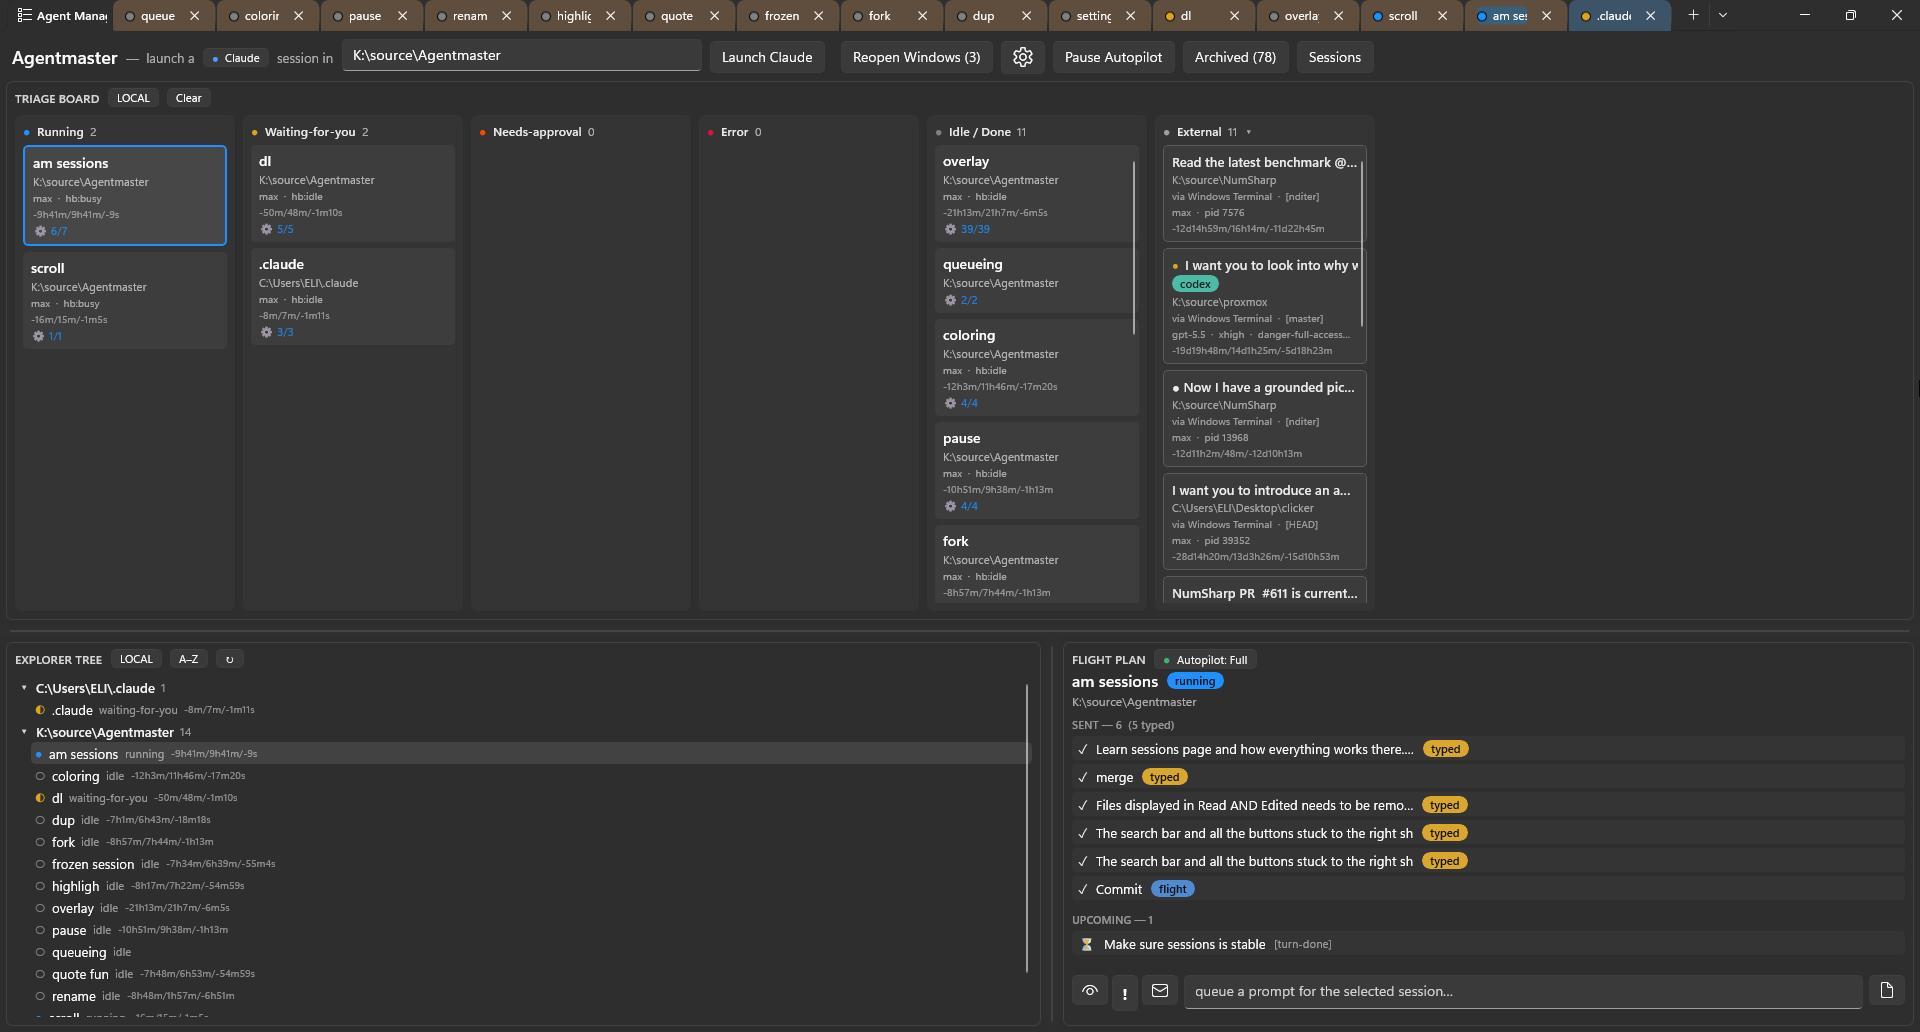
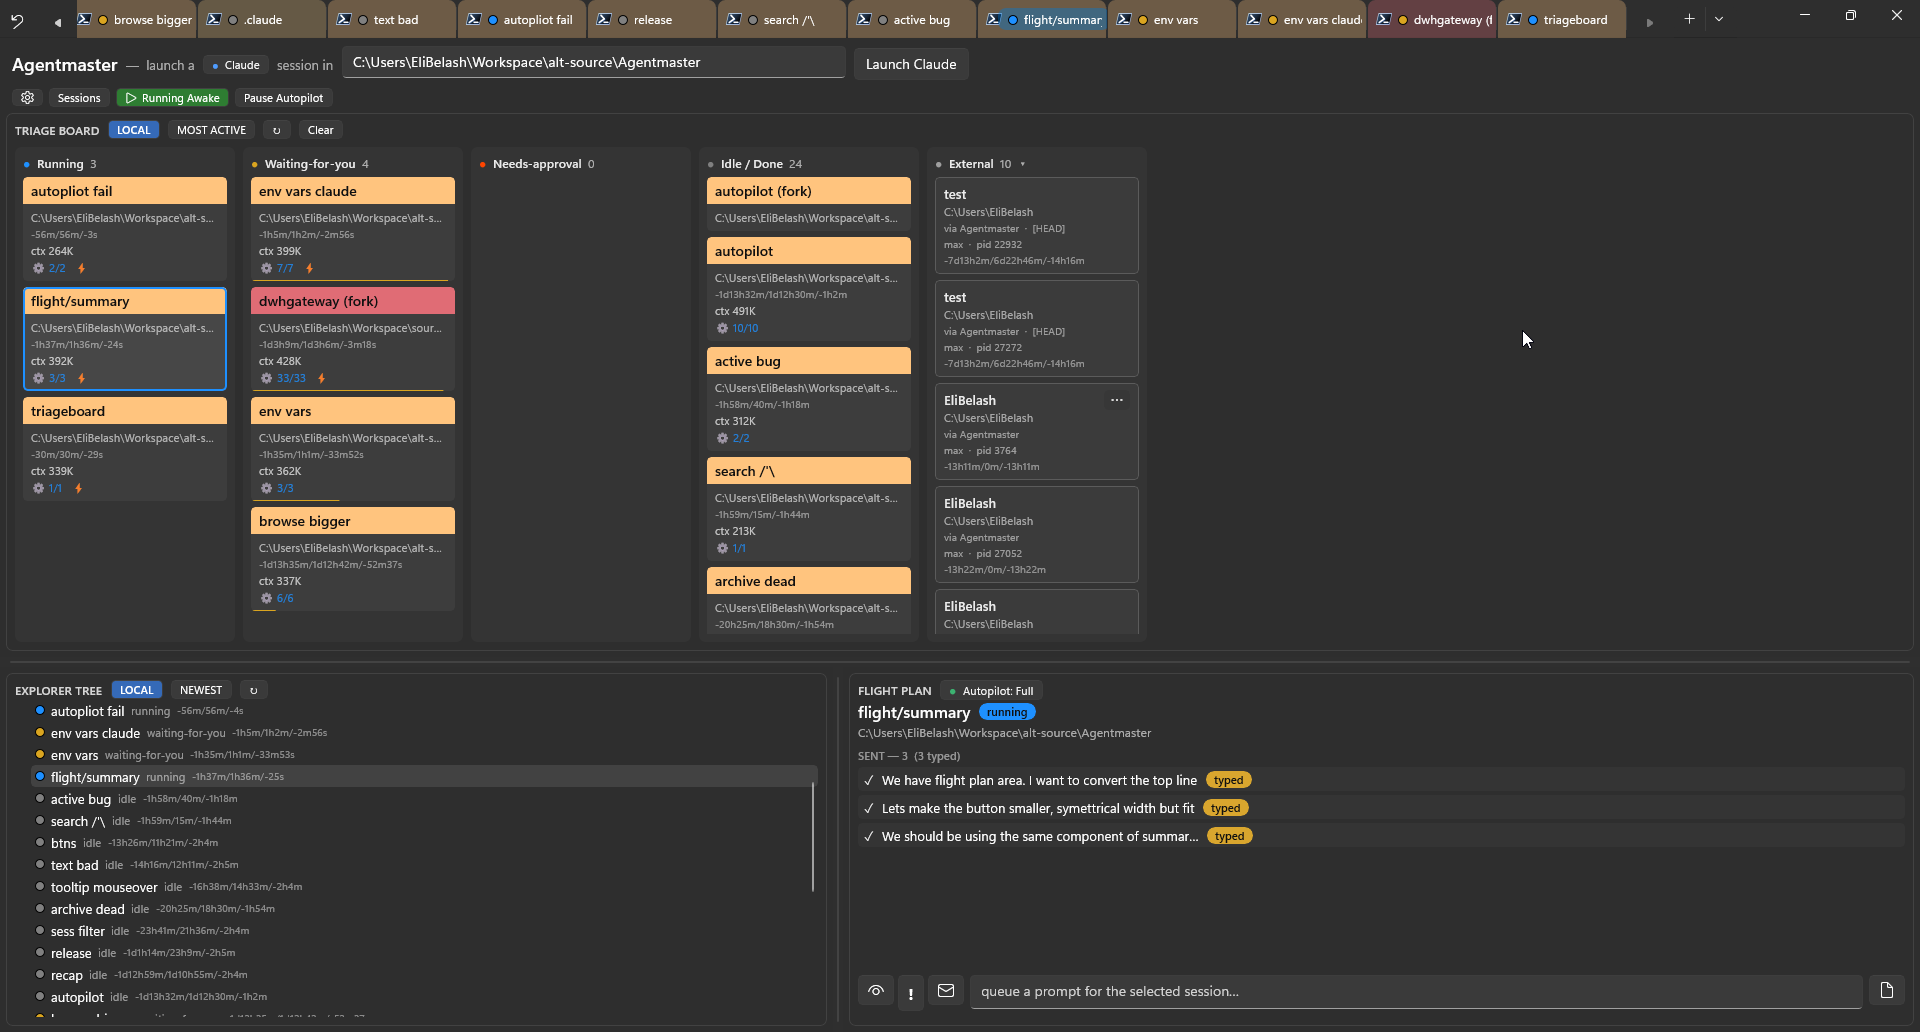
docs(readme): lean benefit-first README2 + refresh the Manager hero screenshot
README2.md is a rewritten front page that leads with the six high-impact capabilities
(mission-control Manager, Autopilot, never-lose-a-session persistence + Sessions browser,
the zero-setup Fleet Observer, at-a-glance triage with recap + a waiting-for-you inbox,
and the unattended trio Keep Awake / in-app updater / CLI) instead of an exhaustive
feature inventory. It also fixes stale bits the old README carried (install grabs the
LATEST instead of pinning 0.4.1, portable runs agentmaster.exe, the removed Archive-page
bullet dropped, 1100+ engine checks) and adds shields.io badges.

The Manager hero screenshot (doc/agentmaster/img/agent-manager.png, used by BOTH README.md
and README2.md) is replaced with a fresh full-resolution shot — Triage Board (context-usage
adornment + External census), Explorer Tree, and Flight Plan on Autopilot: Full.

diff --git a/README2.md b/README2.md
@@ -1,0 +1,90 @@
+# 🛰 Agentmaster
+
+> **Mission control for your AI coding agents.** Run a dozen Claude Code & Codex sessions in parallel — across every repo — without losing track of one, or losing a single conversation.
+
+[![Latest release](https://img.shields.io/github/v/release/Nucs/Agentmaster?label=release&color=2ea043)](https://github.com/Nucs/Agentmaster/releases)
+[![Platform](https://img.shields.io/badge/Windows%2010%2F11-x64%20%7C%20arm64-0078D6?logo=windows&logoColor=white)](#-install)
+[![Built on Windows Terminal](https://img.shields.io/badge/built%20on-Windows%20Terminal%20v1.24-373277)](https://github.com/microsoft/terminal)
+[![License: MIT](https://img.shields.io/badge/license-MIT-blue)](LICENSE)
+[![Stars](https://img.shields.io/github/stars/Nucs/Agentmaster?style=social)](https://github.com/Nucs/Agentmaster/stargazers)
+
+![The Agentmaster Manager tab — Triage Board (sessions as cards in Running · Waiting-for-you · Needs-approval · Error · Done · External columns), Explorer Tree (working directories → sessions), and Flight Plan (per-session prompt queue + Autopilot)](doc/agentmaster/img/agent-manager.png)
+
+You don't code faster by typing faster anymore — you code faster by running **many agents at once**. But ten parallel sessions across ten repos turns into chaos: *which one is waiting on me? what did the one in the other window decide? did I just lose it when that window closed?*
+
+**Agentmaster** is [Windows Terminal](https://github.com/microsoft/terminal) turned into mission control for that fleet. Every session is a real `claude.exe` (or Codex) on a ConPTY — a full-fidelity terminal you can still type into — with its state read **out-of-band**, so you can *see* and *steer* all of them at once. It still feels like Windows Terminal; you just stop dropping contexts.
+
+## ✨ What it does for you
+
+### 🗂 One tab to run the whole fleet
+A pinned **Manager** tab is mission control: a **Triage Board** that sorts every session into *Running · Waiting-for-you · Needs-approval · Error · Done*, an **Explorer Tree** of your working-dirs → sessions, and a **Flight Plan** to queue prompts per session. Click a card and its terminal tab follows — both ways, across every window — so you never lose which tab is which.
+
+### 🤖 Autopilot — scale yourself, not your typing
+Queue a plan and the next prompt fires the instant a turn finishes (**Full**), or with one tap (**Semi**). It's bounded by real backstops — stop-on-error, max-sends, pause-the-moment-you-touch-the-keyboard, a clarifying-question guard — and it even re-presses Enter when the agent's TUI swallows a submit. Save a queue as a **template** and broadcast it across a whole directory.
+
+### 💾 Never lose a session — ever
+Close a window and reopen it **whole**: geometry, **resumed** Claude *and* Codex conversations, shell tabs back at their real cwd, even the focused tab. And the **Sessions browser** searches *every* conversation that's ever hit disk — an instant index, then ripgrep across the actual content — so you can **Resume or Fork** anything, from any day. Closing only archives a session; your transcripts are never deleted.
+
+### 👀 Manages every agent — even the ones you didn't launch
+The **Fleet Observer** detects, correlates, and enriches *every* Claude/Codex session by reading process memory and transcripts **out-of-band** — no hooks, no setup, completely invisible to the shell. Hand-type `claude` in any tab and it's managed within seconds. Sessions running *outside* the app show up too: watch them read-only, or **adopt** them (fork a safe copy, or resume).
+
+### 🚦 Know who needs you — at a glance
+State is **never screen-scraped**: it's hook-derived and then self-healed from the transcript, so dropped or out-of-order events can't lie to you. It shows up everywhere — a color dot on every tab, a board column, and a hover card carrying the conversation's **recap** (*"what we did / what's next"*). **Waiting-for-you** works like an unread inbox: a finished turn stays flagged until you've actually looked at it.
+
+### 🌙 Built for long, unattended runs
+**Keep Awake** stops your PC sleeping while agents grind through a backlog. Agentmaster **updates itself** from GitHub (one click, signed). And the **`agentmaster` CLI** introspects the whole fleet from any shell — app running or not — so you (or an agent) can ask *"what's going on in tab 3?"* and get a real answer.
+
+![The Agentmaster Sessions browser — every on-disk Claude Code session with a scoped, fuzzy search bar and time-range filter on the left, and a detail pane (metadata, conversation, Resume / Fork / Open-New-Session) on the right](doc/agentmaster/img/sessions-browser.png)
+
+> **And the small stuff that adds up:** a per-prompt **Jump** that scrolls the terminal to exactly where a prompt was sent (plus **Alt+↑/↓** to step through them), a per-tab **summary panel** (plan · tasks · files touched), **copy the real launch CLI** of any session, **★ favorite** a session to pin it, permanent **per-directory tab colors**, and per-install **profiles** so a from-source dev build sits right beside the release.
+
+## 🟢 Status
+
+In active use, shipping regular [**releases**](https://github.com/Nucs/Agentmaster/releases). The full pipeline runs end-to-end in the packaged app; the standalone engine harness passes **1,100+** checks.
+
+- **Claude Code** — fully managed: launch · observe · drive (Autopilot) · persist · restore.
+- **Codex** (OpenAI Codex CLI) — managed for observe + state + the full launch / restore / adopt lifecycle (driving its TUI is next).
+- **Every session** — the Observer manages them whether they fire hooks or not; external ones stay read-only until you adopt.
+- Installs **side-by-side** under its own identity — your real Windows Terminal is left untouched.
+
+## ⬇ Install
+
+**One line, no download** — paste into PowerShell. It grabs the latest release, verifies the signature, and trusts the cert behind a single UAC prompt (skipped on upgrades once trusted):
+
+```powershell
+& ([scriptblock]::Create((irm https://raw.githubusercontent.com/Nucs/Agentmaster/agentmaster/tools/Install-Agentmaster.ps1)))
+```
+
+Flags: `-Version <x.y.z>` · `-Portable` (cert-free, no admin) · `-Launch` · `-Prerelease` · `-Force` · `-Uninstall`.
+
+Prefer the files? Grab them from [**Releases**](https://github.com/Nucs/Agentmaster/releases): the **portable zip** (unzip, run `agentmaster.exe` — fully self-contained, no cert) or the self-signed **`.msixbundle`** (trust `Agentmaster.cer` once, then `Add-AppxPackage`).
+
+First launch silently picks a per-install **profile folder** (`~/.agentmaster`) holding everything it persists. **Requires** Windows 10 19041+, x64/arm64, and a native [Claude Code](https://www.anthropic.com/claude-code) `claude.exe` on `PATH` (Codex optional).
+
+## 📚 Docs & building
+
+- **Start here:** [`CLAUDE.md`](CLAUDE.md) — full working notes (status by area, build/deploy, gotchas, correctness rules) · [`DESIGN`](doc/agentmaster/DESIGN.md) · [`IMPLEMENTATION`](doc/agentmaster/IMPLEMENTATION.md)
+- **Internals:** [`OBSERVER`](doc/agentmaster/OBSERVER.md) · [`HOOKS`](doc/agentmaster/HOOKS.md) · [`STATE`](doc/agentmaster/STATE.md) · [`SESSIONS`](doc/agentmaster/SESSIONS.md) · [`PERSISTENCE`](doc/agentmaster/PERSISTENCE.md) · [`PROFILES`](doc/agentmaster/PROFILES.md) · [`CLI`](doc/agentmaster/CLI.md) · [`TAB_OVERLAY`](doc/agentmaster/TAB_OVERLAY.md)
+
+Build it with VS 2022 (*Desktop C++* + *UWP* workloads, Windows SDK 10.0.22621/26100):
+
+```powershell
+pwsh -File .\tools\Build-Agentmaster.ps1            # first build (restores packages)
+pwsh -File .\tools\Build-Agentmaster.ps1 -NoRestore # inner loop
+```
+
+To run from source, deploy the loose layout (registers the **dev** identity `AgentmasterDev`, which coexists with the release):
+
+```powershell
+Add-AppxPackage -Register ".\src\cascadia\CascadiaPackage\bin\x64\Debug\AppxManifest.xml" -ForceUpdateFromAnyVersion
+```
+
+Our code is additive and marked `Agentmaster`: the Manager UI in `AgentManagerContent`, the plain-C++ engine + Fleet Observer under `src/cascadia/TerminalApp/AgentMaster/`, the per-tab overlay `AgentTabOverlay`, and small touches at the `TerminalPage` / `Tab` integration points.
+
+## 🔗 Relationship to Windows Terminal & License
+
+A fork of [`microsoft/terminal`](https://github.com/microsoft/terminal) at `v1.24.2372` — pristine upstream on `main`, the fork's work on `agentmaster`; upstream code, docs, and notices are retained ([`NOTICE.md`](NOTICE.md)). Licensed [MIT](LICENSE), same as upstream, with the original `Copyright (c) Microsoft Corporation` notice kept alongside the fork author's. For Windows Terminal itself, see [aka.ms/terminal-docs](https://aka.ms/terminal-docs).
+
+---
+
+> *It looks like the entire codebase went into `Form1.cs` — but patience and careful design made this little gem.*
